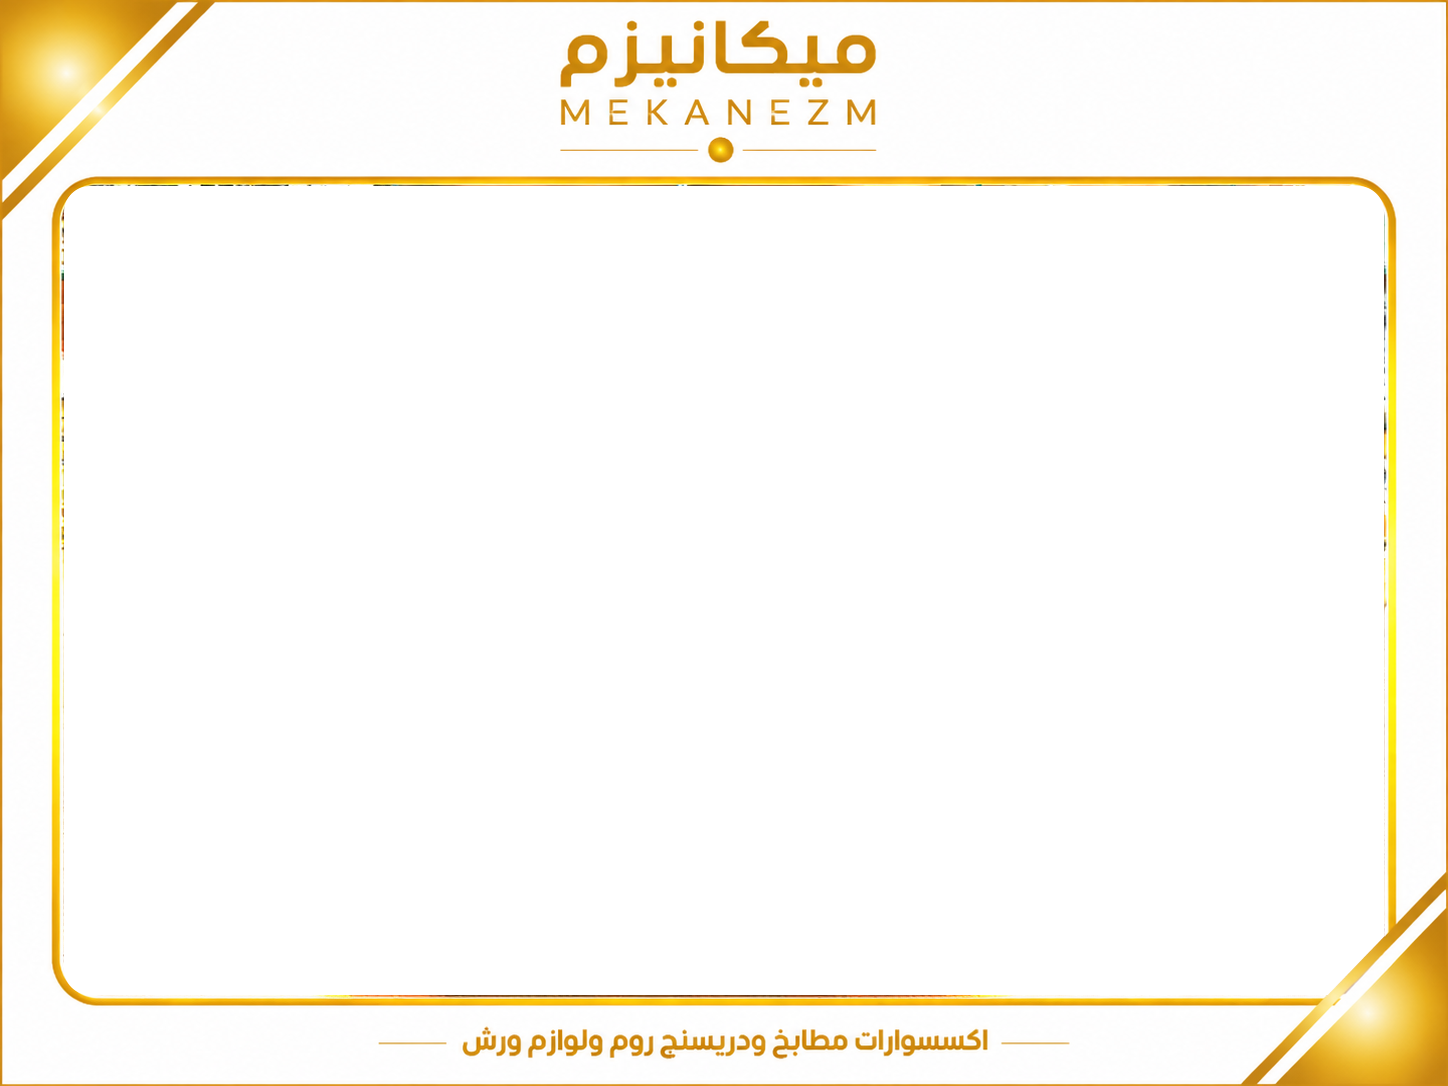
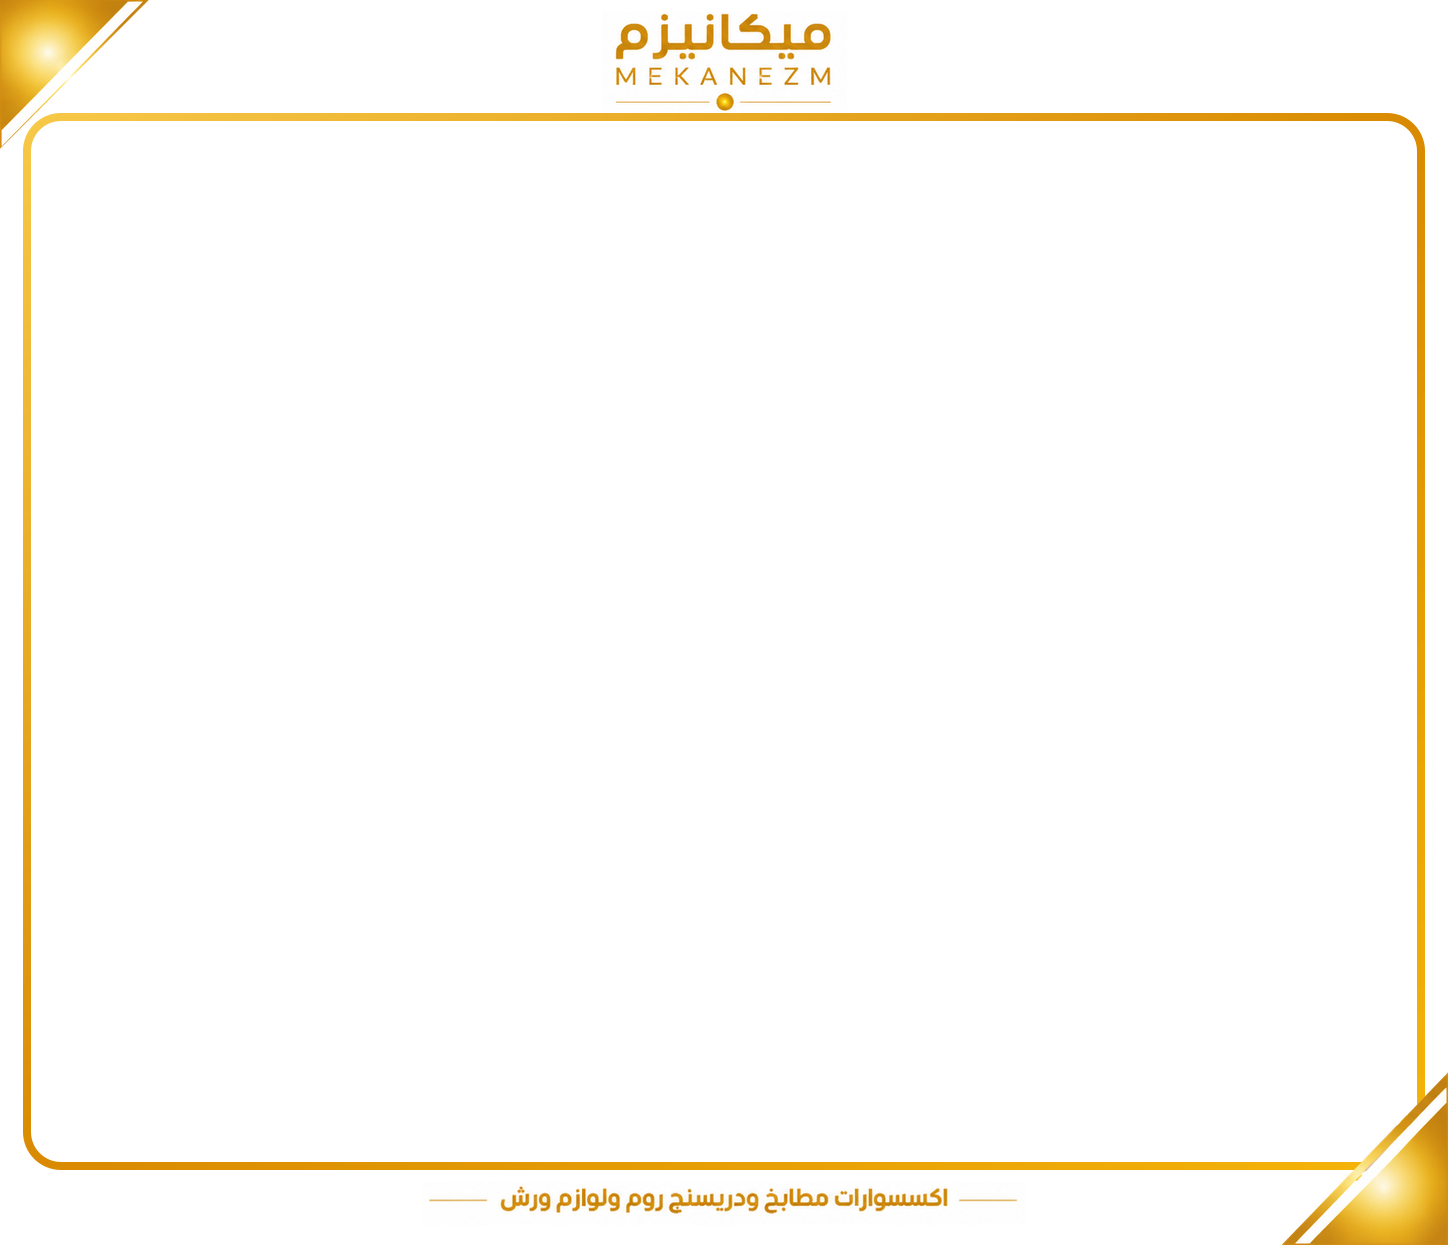
Slim Mekanezm frame: bigger 4:3 photo window, smaller header/footer/margins
Claude-Session: https://claude.ai/code/session_019gVKjE8qCy4zfj1moRNJdi

Changed region(s): [[0.0, 0.0, 1.0, 1.0], [0.0, 0.9724, 0.0311, 1.0]]

diff --git a/product-manager/assets/frames/build-mekanezm.js b/product-manager/assets/frames/build-mekanezm.js
@@ -1,21 +1,47 @@
-// Turns the finished Mekanezm design (photo + branding) into a reusable frame:
-// the photo window becomes transparent, the corner ribbon that overlaps it stays.
-// Usage: node assets/frames/build-mekanezm.js [source.png]   ->  assets/frame.png + assets/frame.json
+// Rebuilds a SLIM Mekanezm frame from the finished design (assets/frames/mekanezm-sample.png):
+// logo / slogan / corner ribbons are cut out of it and re-laid-out around a much bigger photo window.
+// Usage: node assets/frames/build-mekanezm.js   ->  assets/frame.png + assets/frame.json
 const sharp = require('sharp'), fs = require('fs'), path = require('path');
-const SRC = process.argv[2] || path.join(__dirname, 'mekanezm-sample.png');
+const SRC = path.join(__dirname, 'mekanezm-sample.png');
 const OUT = path.join(__dirname, '..', 'frame.png');
-const WIN = { x: 64, y: 186, w: 1320, h: 809, r: 26 };      // measured on the 1448x1086 design
-const RIBBON = { nx: 205, ny: 197.5, c: 468700 };           // bottom-right ribbon: keep pixels where nx*x+ny*y >= c
+
+const W = 1448, MARGIN = 34, TOP = 124, WIN_W = W - 2 * MARGIN, WIN_H = Math.round(WIN_W * 3 / 4), FOOT = 86;
+const H = TOP + WIN_H + FOOT, WIN = { x: MARGIN, y: TOP, w: WIN_W, h: WIN_H, r: 26 };
+const crop = (box, k, mask) => async () => {
+  let s = sharp(SRC).extract(box).ensureAlpha();
+  if (mask) s = s.composite([{ input: Buffer.from(mask), blend: 'dest-in' }]);
+  const b = await s.png().toBuffer();
+  return sharp(b).resize(Math.round(box.width * k)).png().toBuffer();
+};
+// polygon masks in the source crop's own coordinates
+const poly = (w, h, pts) => `<svg xmlns="http://www.w3.org/2000/svg" width="${w}" height="${h}"><polygon points="${pts}" fill="#fff"/></svg>`;
 
 (async () => {
-  const { width: W, height: H } = await sharp(SRC).metadata();
-  const yAtRight = (RIBBON.c - RIBBON.nx * W) / RIBBON.ny, xAtBottom = (RIBBON.c - RIBBON.ny * H) / RIBBON.nx;
-  const mask = `<svg xmlns="http://www.w3.org/2000/svg" width="${W}" height="${H}"><defs><clipPath id="c"><polygon points="0,0 ${W},0 ${W},${yAtRight} ${xAtBottom},${H} 0,${H}"/></clipPath></defs>
-    <rect clip-path="url(#c)" x="${WIN.x}" y="${WIN.y}" width="${WIN.w}" height="${WIN.h}" rx="${WIN.r}" fill="#fff"/></svg>`;
-  await sharp(SRC).ensureAlpha().composite([{ input: Buffer.from(mask), blend: 'dest-out' }]).png().toFile(OUT);
+  // top-left ribbon: sample pixels with x+y <= 206 ; bottom-right ribbon: 205x+197.5y >= 468700
+  const tl = await crop({ left: 0, top: 0, width: 230, height: 230 }, .72, poly(230, 230, '0,0 206,0 0,206'))();
+  const BRX = 1198, BRY = 836, BRW = 250, BRH = 250, c = 468700, nx = 205, ny = 197.5;
+  const pts = [[BRW, (c - nx * (BRX + BRW)) / ny - BRY], [(c - ny * (BRY + BRH)) / nx - BRX, BRH], [BRW, BRH]].map(p => p.join(',')).join(' ');
+  const brK = .8, br = await crop({ left: BRX, top: BRY, width: BRW, height: BRH }, brK, poly(BRW, BRH, pts))();
+  const logoK = .68, logo = await crop({ left: 540, top: 18, width: 360, height: 148 }, logoK)();
+  const slogan = await crop({ left: 370, top: 1022, width: 710, height: 50 }, .85)();
+  const lm = await sharp(logo).metadata(), sm = await sharp(slogan).metadata(), bm = await sharp(br).metadata();
+
+  const rx = WIN.x + WIN.w + 3, by = WIN.y + WIN.h + 3, g = 4, sw = 8;   // gold ring sits 3px outside the window
+  const ring = `<svg xmlns="http://www.w3.org/2000/svg" width="${W}" height="${H}"><defs><linearGradient id="g" x1="0" y1="0" x2="1" y2="1"><stop offset="0" stop-color="#f7c948"/><stop offset=".5" stop-color="#d98a00"/><stop offset="1" stop-color="#f5b50a"/></linearGradient></defs>
+    <rect x="${WIN.x - 3 - g}" y="${WIN.y - 3 - g}" width="${rx - WIN.x + 6 + 2 * g - 3}" height="${by - WIN.y + 6 + 2 * g - 3}" rx="34" fill="none" stroke="url(#g)" stroke-width="${sw}"/></svg>`;
+  const hole = `<svg xmlns="http://www.w3.org/2000/svg" width="${W}" height="${H}"><rect x="${WIN.x}" y="${WIN.y}" width="${WIN.w}" height="${WIN.h}" rx="${WIN.r}" fill="#fff"/></svg>`;
+
+  const base = await sharp({ create: { width: W, height: H, channels: 4, background: '#ffffff' } }).composite([
+    { input: Buffer.from(ring) }, { input: tl, left: 0, top: 0 },
+    { input: logo, left: Math.round((W - lm.width) / 2), top: Math.round((TOP - lm.height) / 2) },
+    { input: slogan, left: Math.round((W - sm.width) / 2), top: WIN.y + WIN.h + 3 + Math.round((FOOT - 3 - sm.height) / 2) }
+  ]).png().toBuffer();
+  const holed = await sharp(base).composite([{ input: Buffer.from(hole), blend: 'dest-out' }]).png().toBuffer();
+  await sharp(holed).composite([{ input: br, left: W - bm.width, top: H - bm.height }]).png().toFile(OUT);
+
   fs.writeFileSync(OUT.replace(/\.png$/, '.json'), JSON.stringify({
     window: { x: WIN.x, y: WIN.y, w: WIN.w, h: WIN.h }, fit: 'cover',
-    code: { x: 215, y: 1056, size: 40, color: '#9a6a00', anchor: 'middle' }
+    code: { x: 215, y: H - 30, size: 34, color: '#9a6a00', anchor: 'middle' }
   }, null, 2));
-  console.log('frame ready', W + 'x' + H);
+  console.log('frame ready', W + 'x' + H, 'window', WIN.w + 'x' + WIN.h);
 })();
